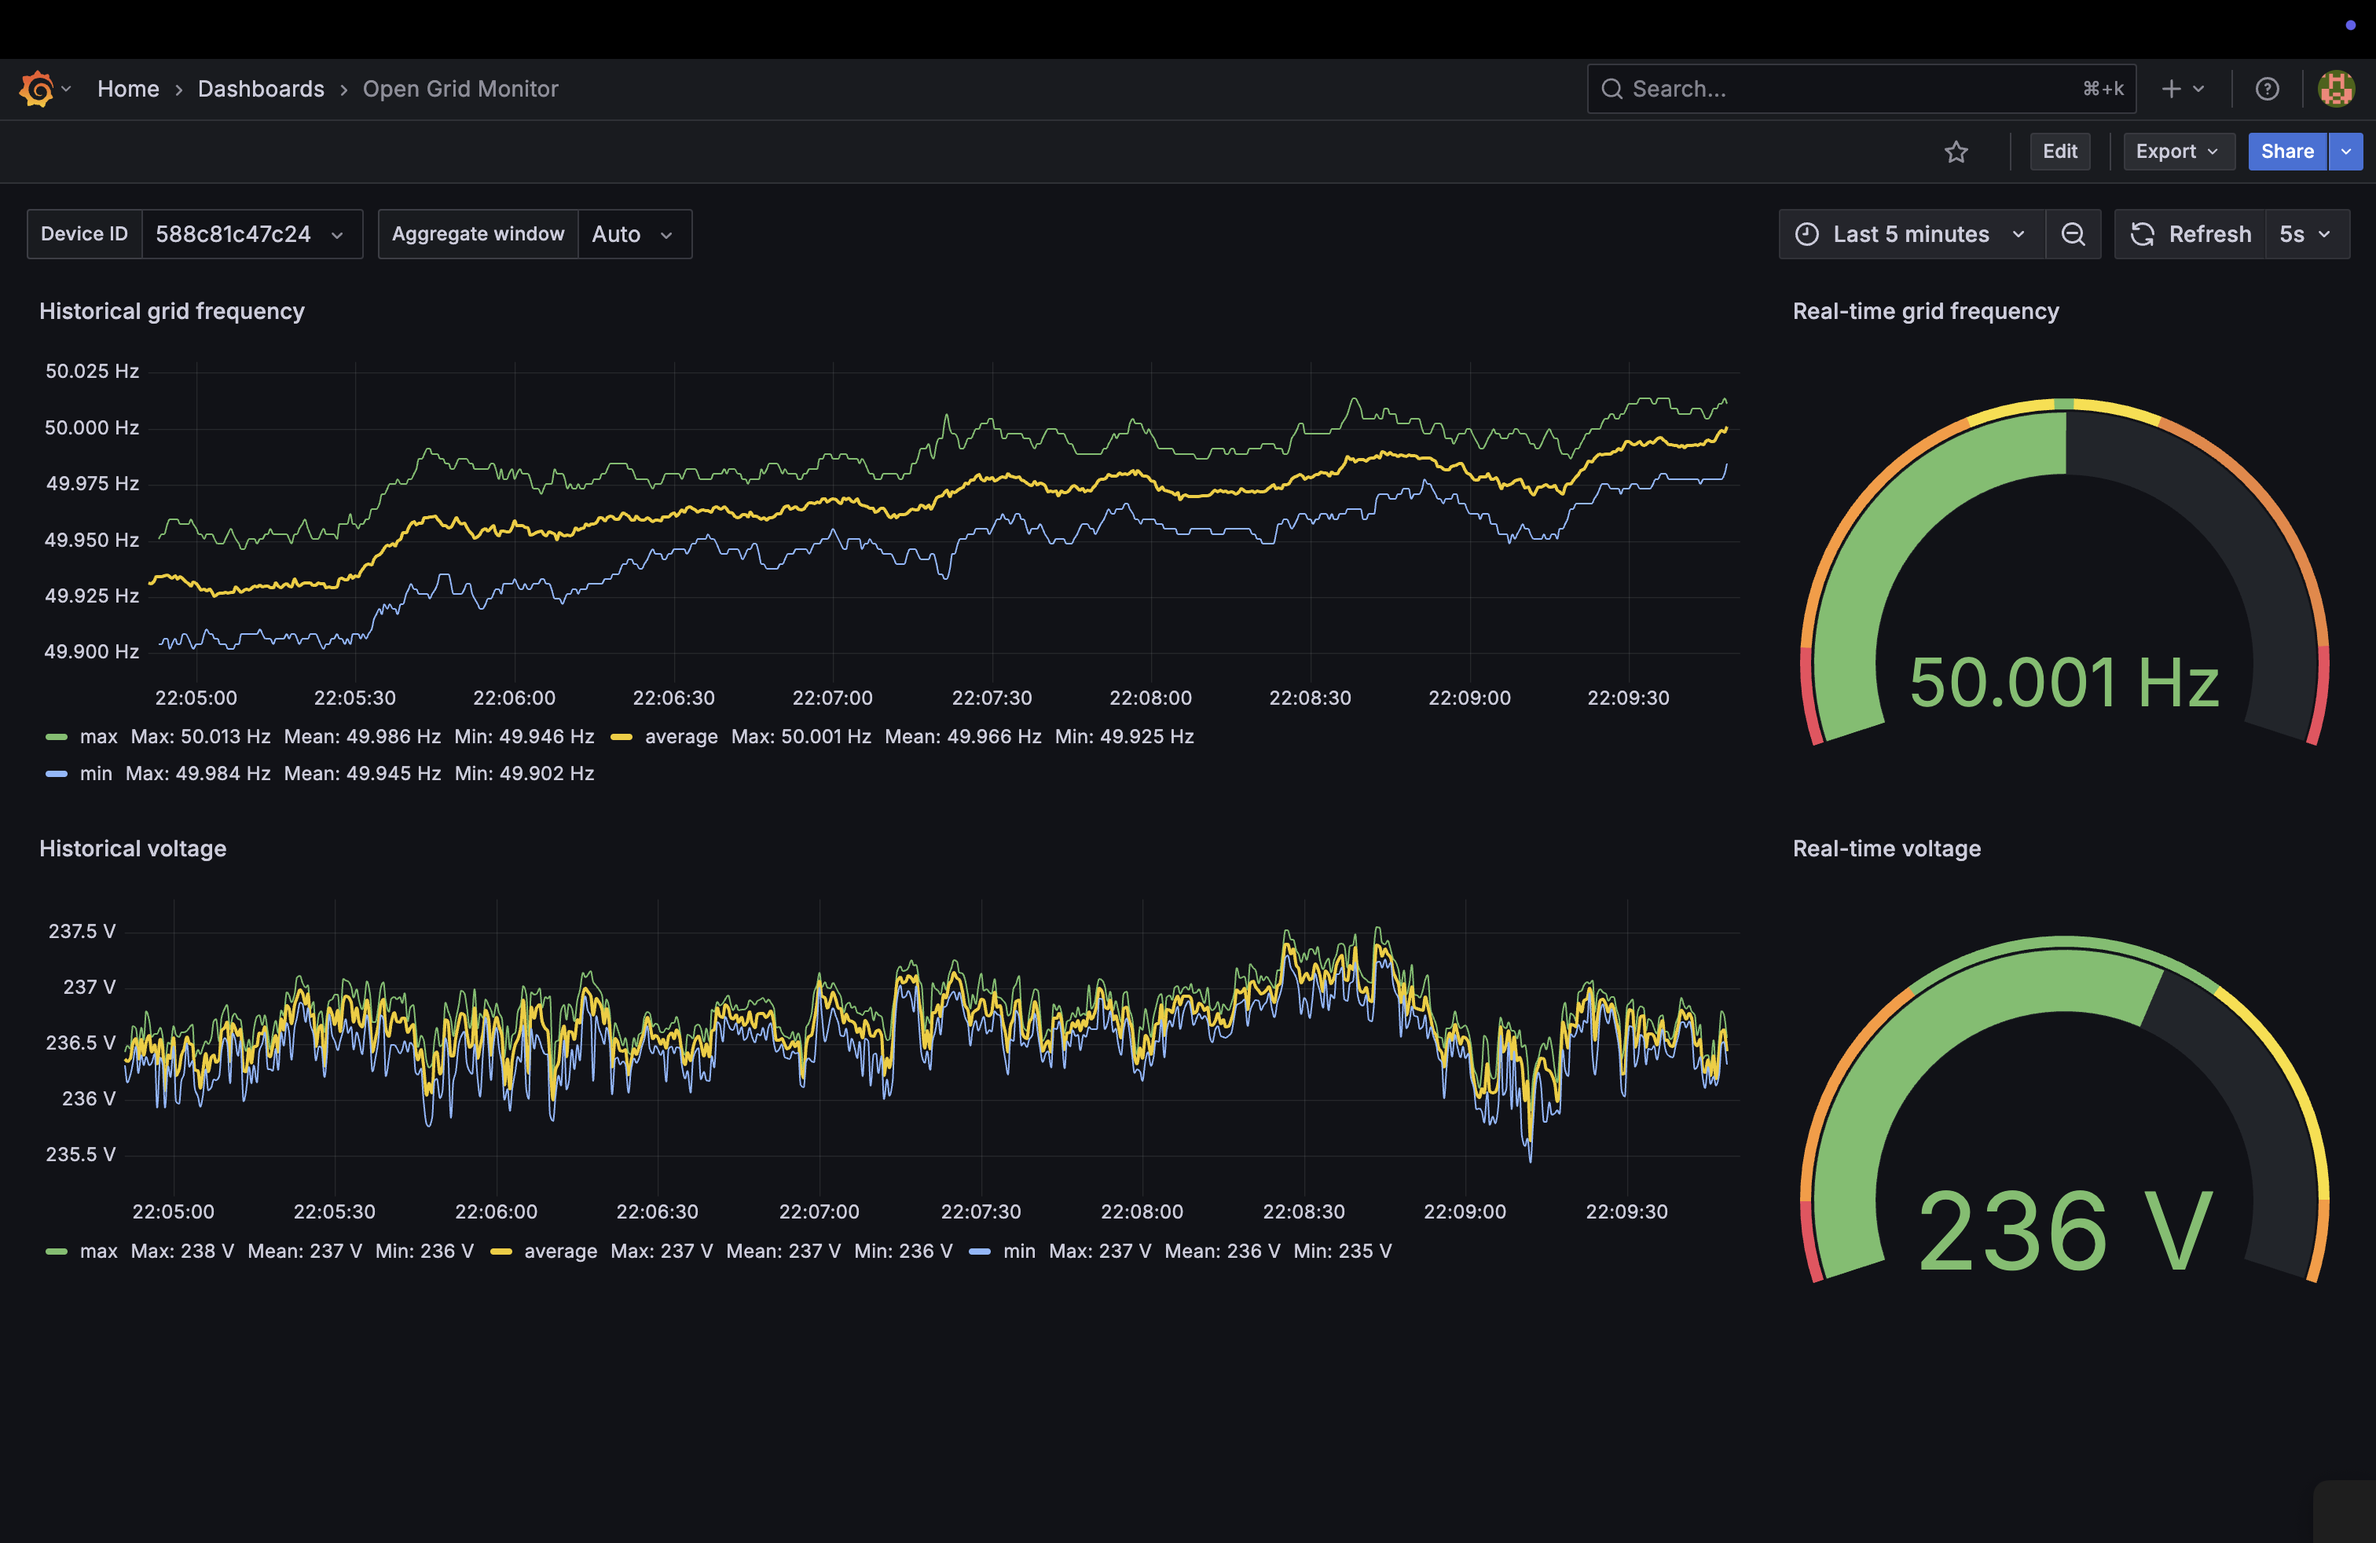
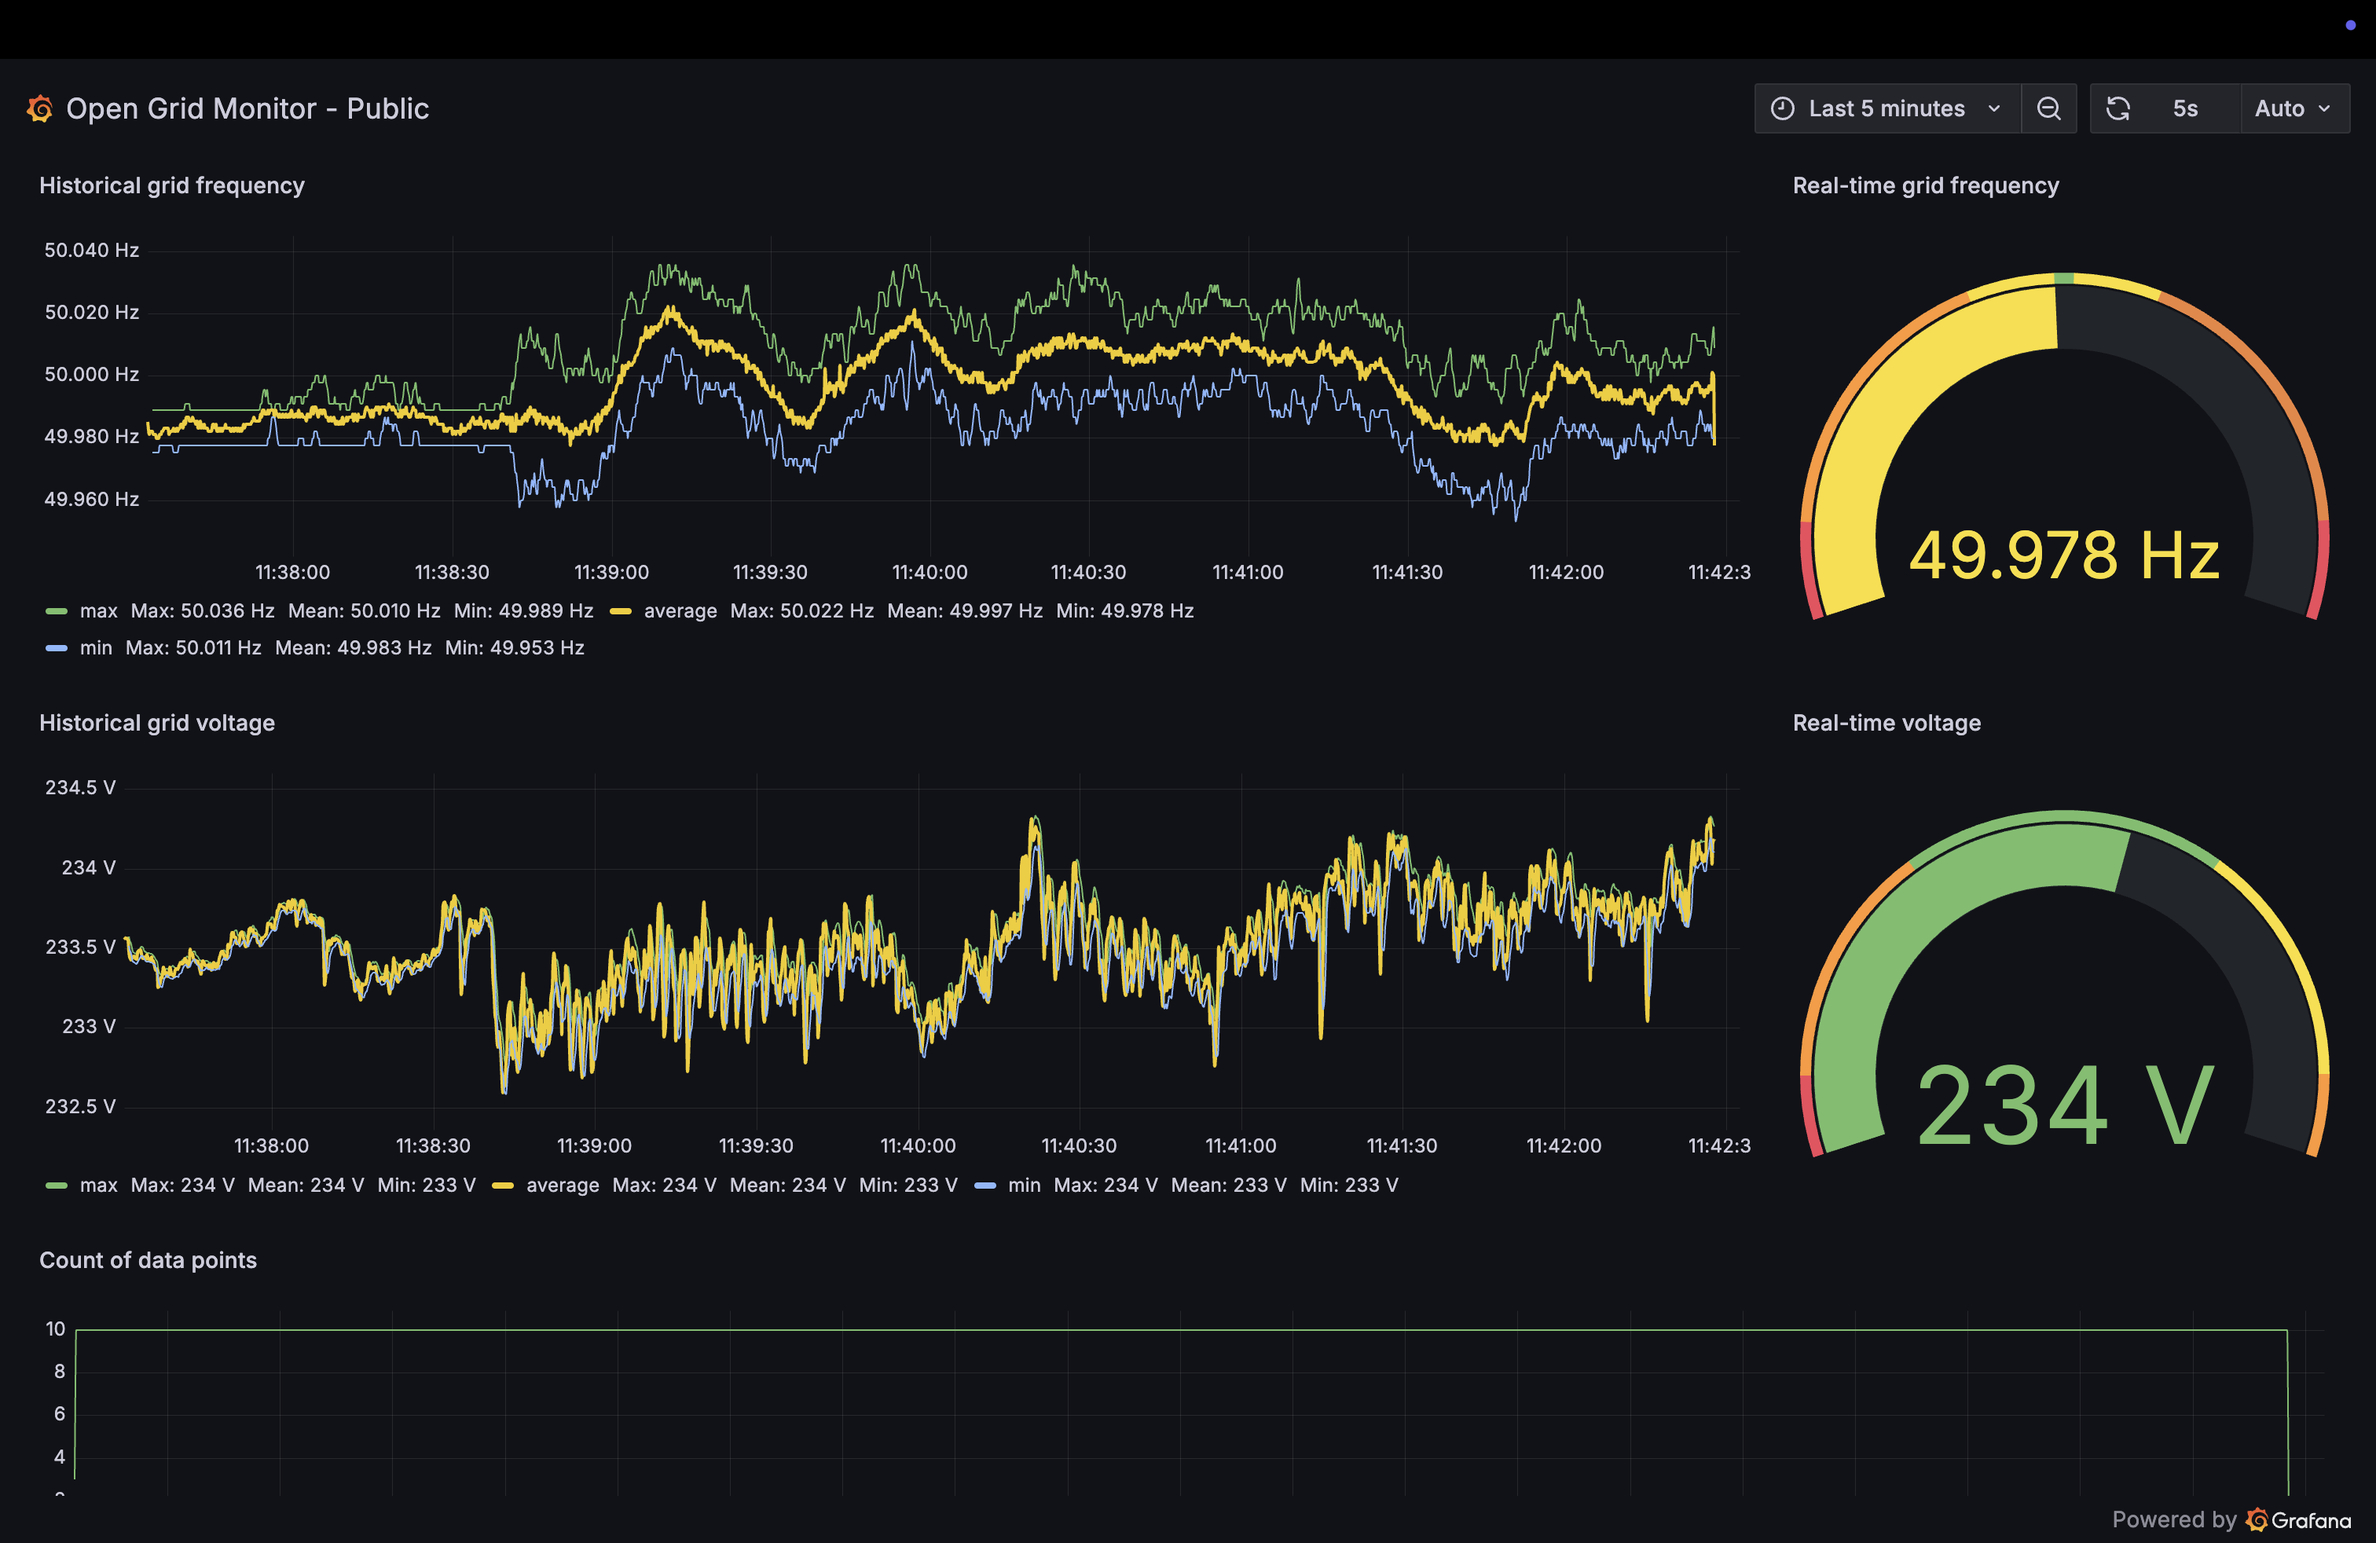
Added real-time dashboard link to README.md

diff --git a/README.md b/README.md
@@ -2,6 +2,8 @@
 
 A complete system for high-resolution electrical grid frequency monitoring and data collection, starting with the Continental European grid.
 
+Check out the real-time dashboard [here](https://opengridmonitor.net/public-dashboards/ad3c54df59d0490daa6cfb120741d50b?refresh=auto)!
+
 ![Grafana dashboard](resources/grafana.png)
 
 ## Project Objective
